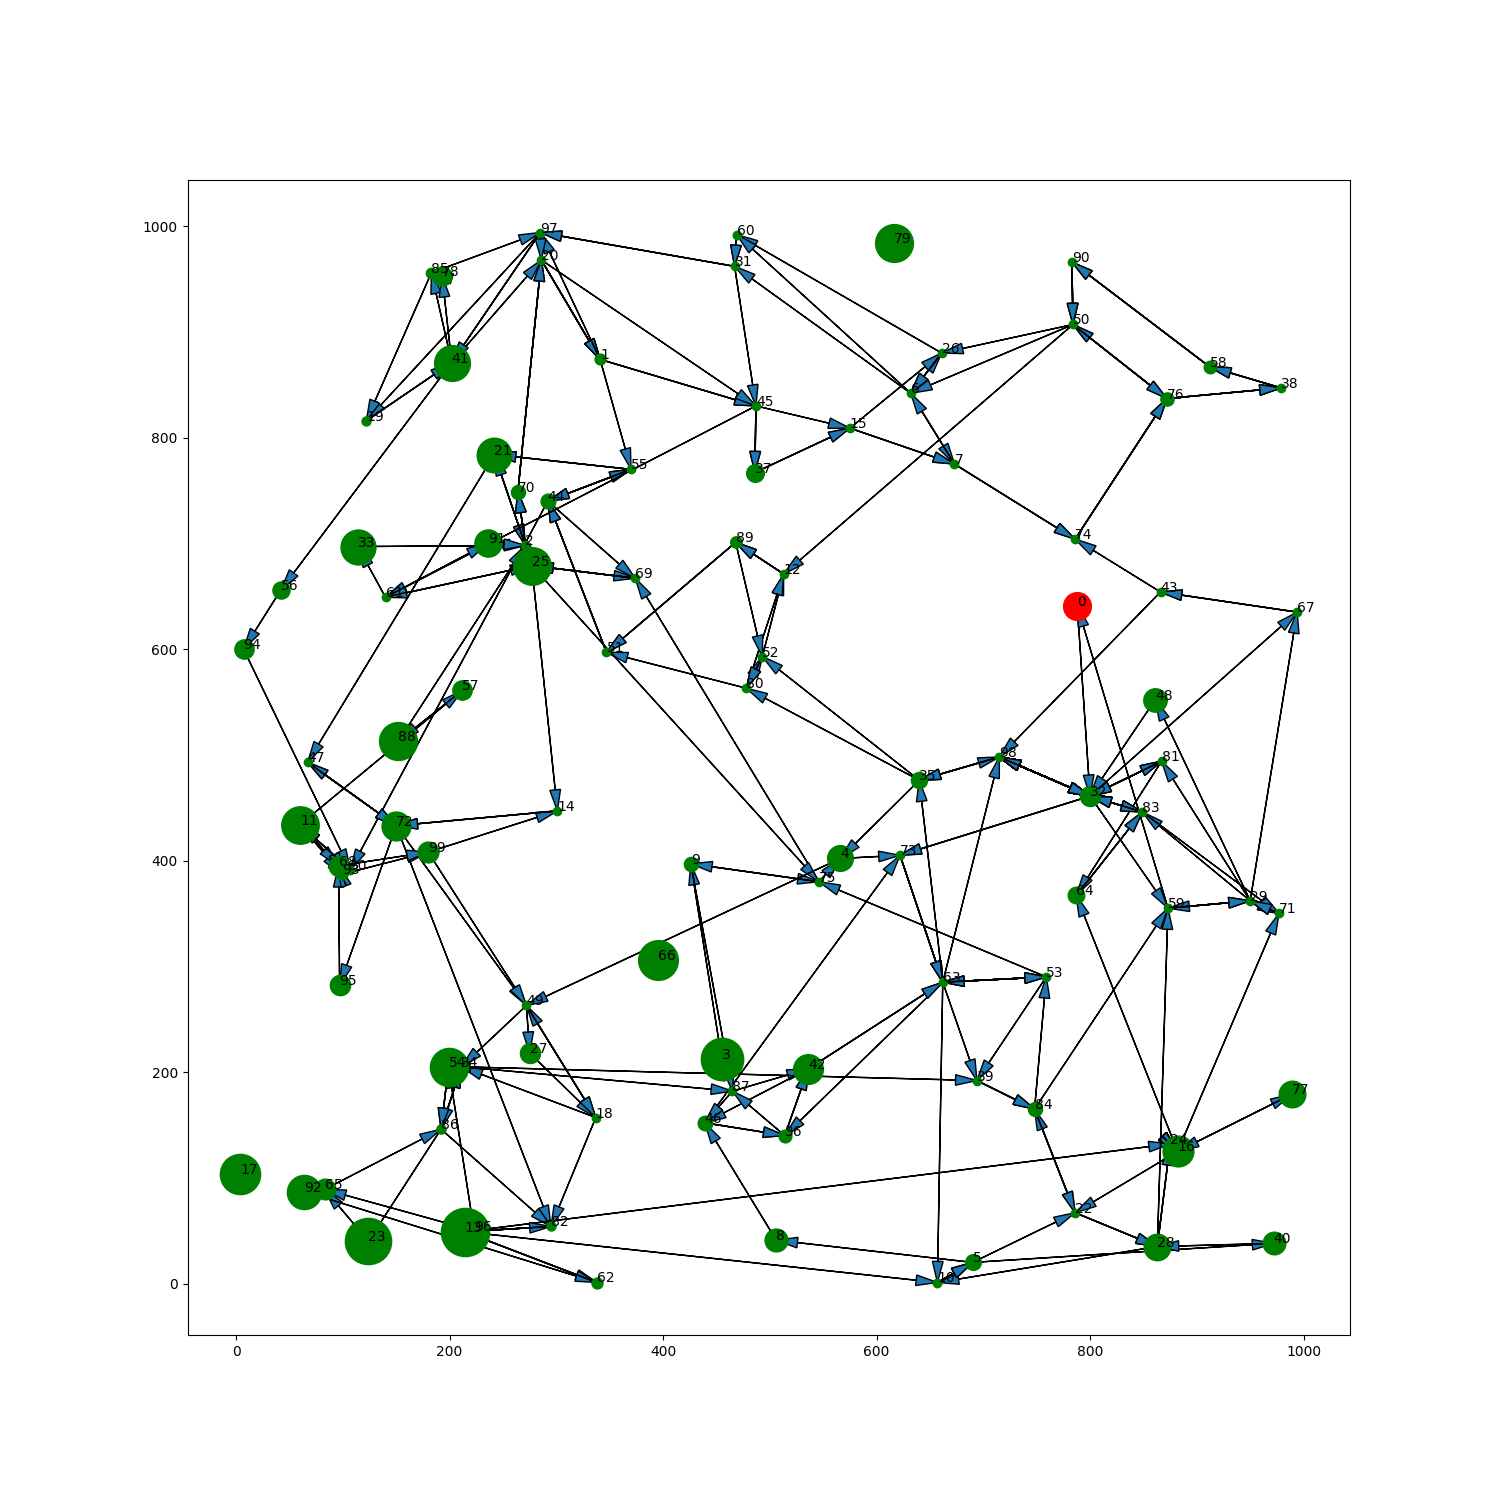
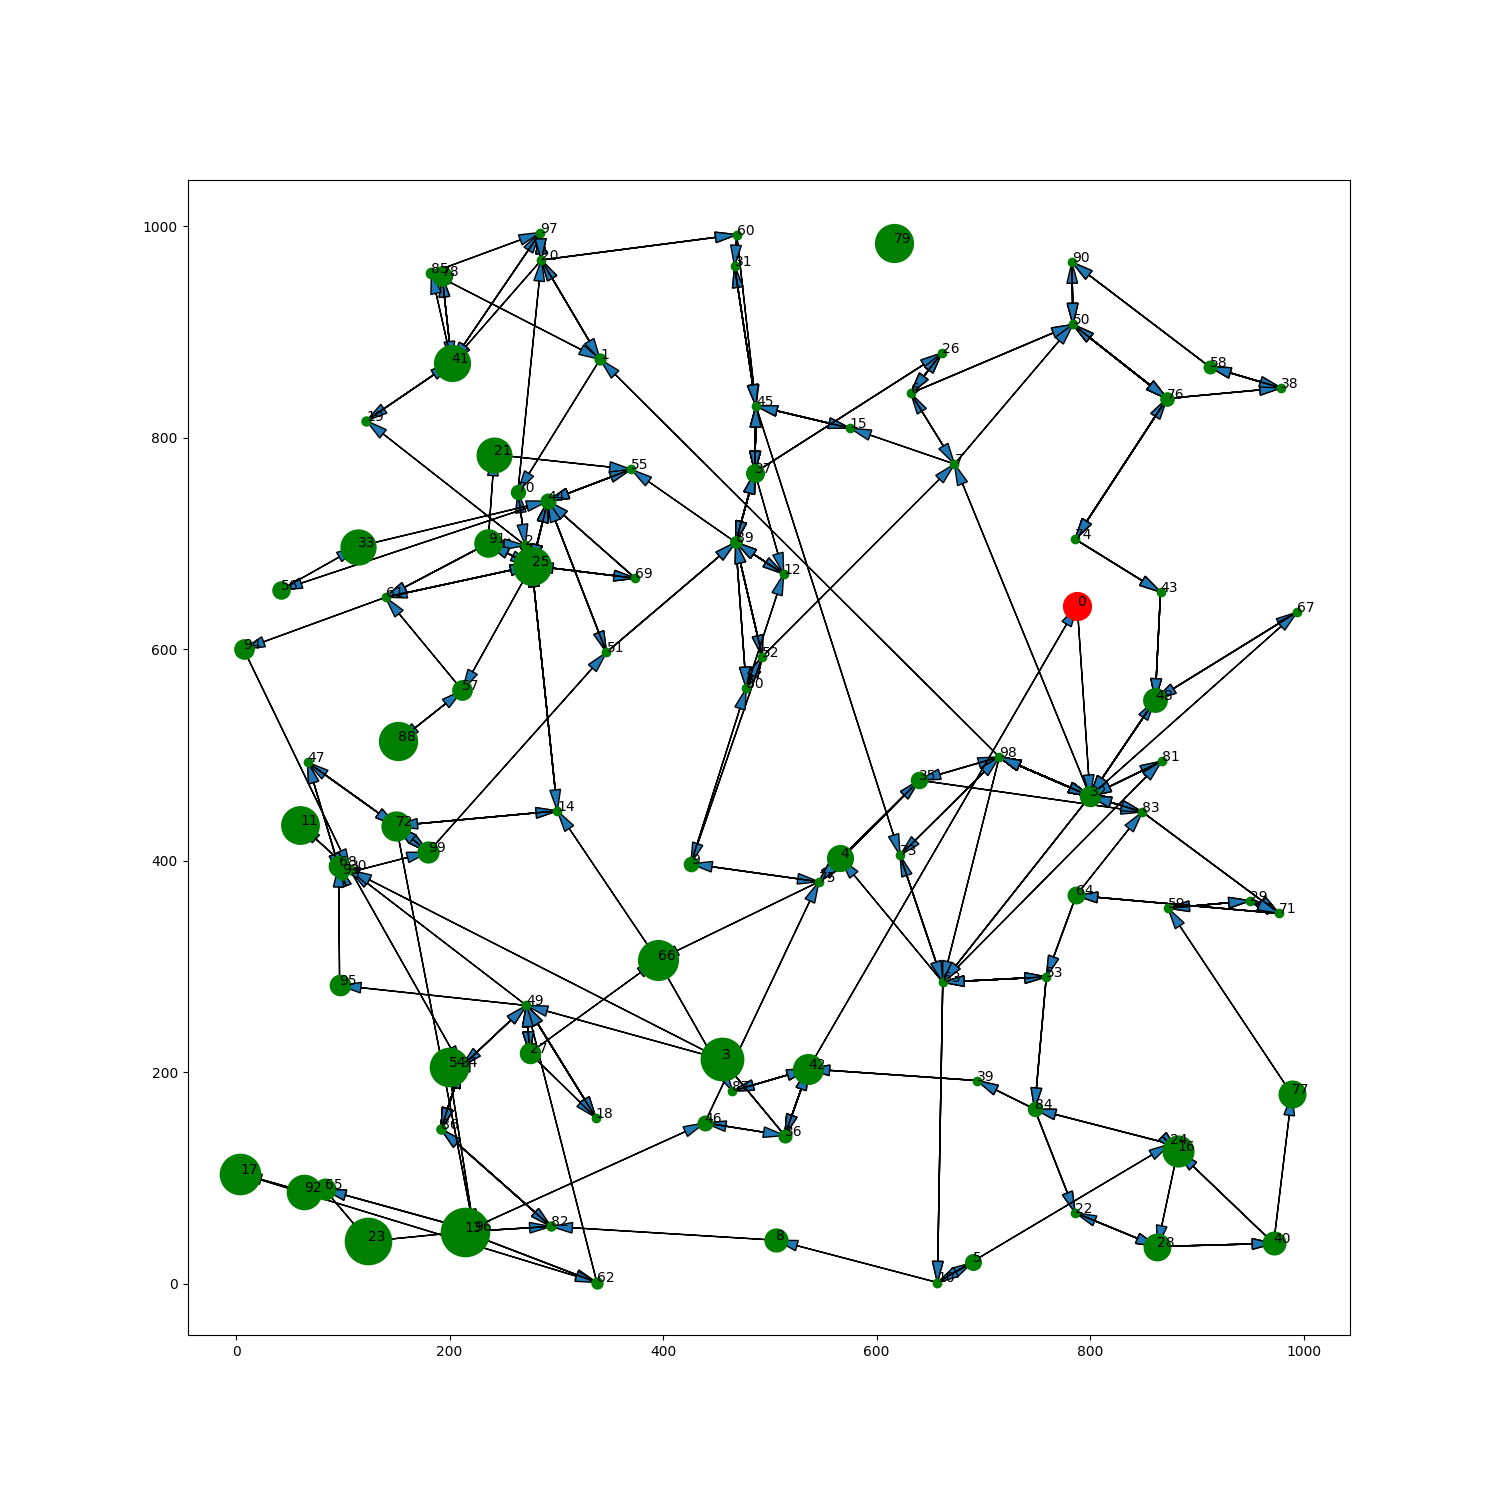
new result 2

diff --git a/src/solver.cpp b/src/solver.cpp
@@ -2,7 +2,9 @@
 #include <ctime>
 #include <algorithm>
 #include <iostream>
+#include <chrono>
 
+extern std::chrono::nanoseconds get_next_remains_total_time;
 
 namespace tung {
 
@@ -170,6 +172,8 @@ void Solver::calculate_fitness_for_unit(Unit& unit)
 
 void Solver::get_next_remains(const Unit& unit) 
 {
+    auto t0 = std::chrono::system_clock::now();
+
     for (int depth = 0; depth < num_lookahead; depth++) {
         weighted_sums.clear();
 
@@ -182,7 +186,7 @@ void Solver::get_next_remains(const Unit& unit)
                                 remain, vertex);
                 WeightedSum wsum;
                 wsum.belong = &remain;
-                wsum.sum = sum;
+                wsum.sum = remain.sum + sum;
                 wsum.vertex_index = vertex;
                 weighted_sums.push_back(wsum);
             }
@@ -224,11 +228,16 @@ void Solver::get_next_remains(const Unit& unit)
                 remain.current_time + 
                 this->overflow_time[vertex_next];
 
+            remain.sum = wsum.sum;
+
             remain.path.push_back(vertex_next);
             
-            remains.push_back(remain);
+            remains.push_back(std::move(remain));
         }
     }
+
+    auto t1 = std::chrono::system_clock::now();
+    get_next_remains_total_time += t1 - t0;
 }
 
 float Solver::calculate_weighted_sum(const Unit &unit, int depth,

diff --git a/src/main.cpp b/src/main.cpp
@@ -14,6 +14,19 @@ using std::cout;
 using std::endl;
 using namespace std::chrono;
 
+nanoseconds get_next_remains_total_time = 0ns;
+
+void print_duration(nanoseconds dt) {
+    cout << duration_cast<hours>(dt).count() << ":";
+    dt -= duration_cast<hours>(dt);
+    cout << duration_cast<minutes>(dt).count() << ":";
+    dt -= duration_cast<minutes>(dt);
+    cout << duration_cast<seconds>(dt).count() << "s  ";
+    dt -= duration_cast<seconds>(dt);
+    cout << duration_cast<milliseconds>(dt).count() 
+         << "ms" << endl;
+}
+
 int main() {
     tung::MatrixReader reader;
     auto mat = reader.read("matrix.txt");
@@ -34,13 +47,10 @@ int main() {
     auto t1 = steady_clock::now();
     nanoseconds dt = t1 - t0;
 
-    cout << duration_cast<hours>(dt).count() << ":";
-    dt -= duration_cast<hours>(dt);
-    cout << duration_cast<minutes>(dt).count() << ":";
-    dt -= duration_cast<minutes>(dt);
-    cout << duration_cast<seconds>(dt).count() << "s  ";
-    dt -= duration_cast<seconds>(dt);
-    cout << duration_cast<milliseconds>(dt).count() << "ms" << endl;
+    cout << "Total time: ";
+    print_duration(dt);
+    cout << "Get next remains total time: ";
+    print_duration(get_next_remains_total_time);
 
     tung::PathWriter writer;
     writer.write("result.txt", solver.get_best());

diff --git a/include/solver.h b/include/solver.h
@@ -42,8 +42,14 @@ struct Unit {
 struct RemainVertex {
     int index;
     int current_time = 0;
-    std::vector<int> path = {0};
+    std::vector<int> path;
     std::vector<int> overflow_time;
+    float sum = 0.0;
+
+    RemainVertex() {
+        path.reserve(1000);
+        path.push_back(0);
+    }
 };
 
 
